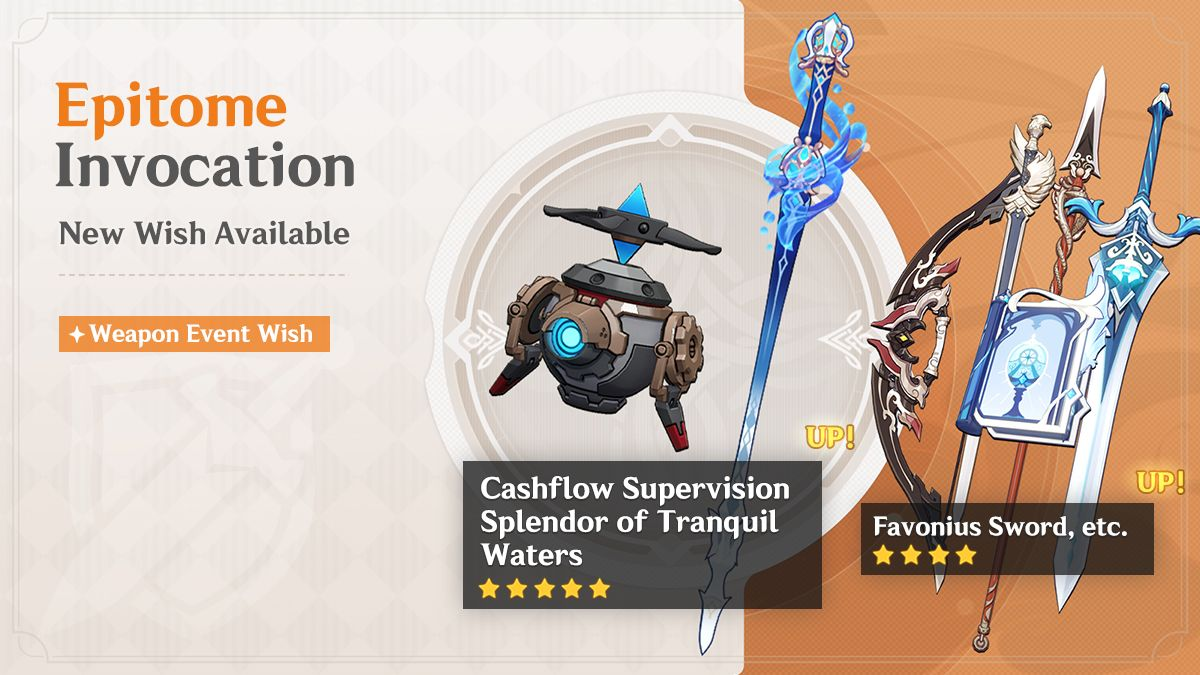
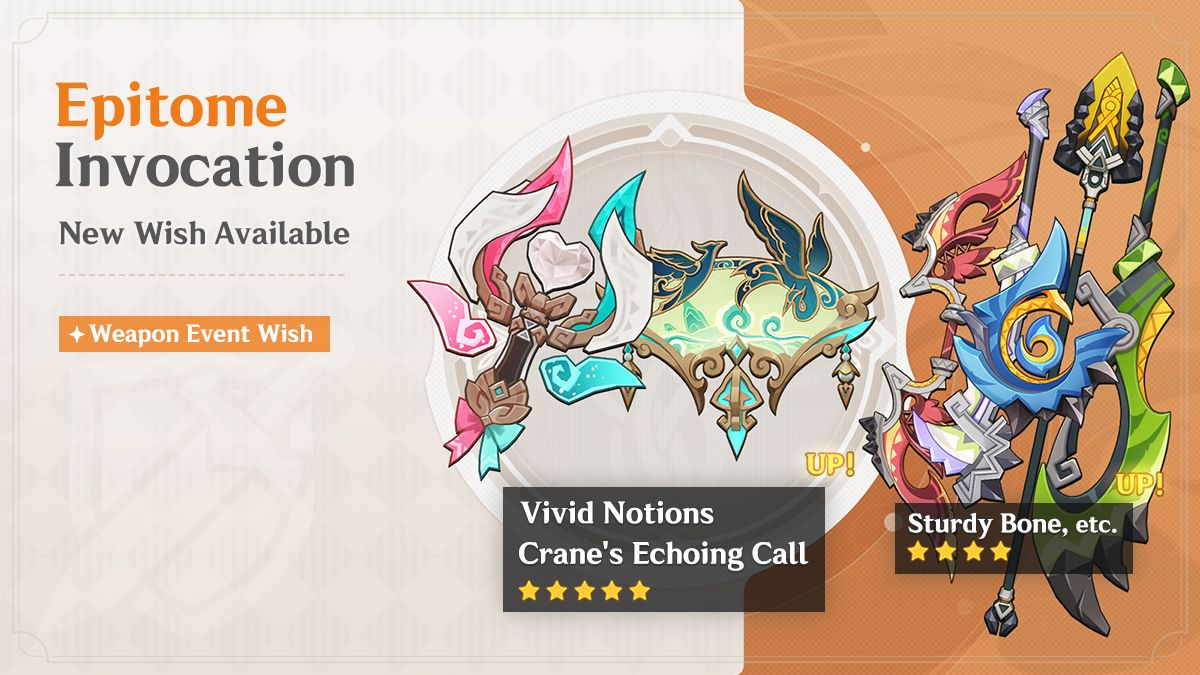
Genshin 5.5 Update Phase 1

Changed region(s): [[0.3392, 0.0, 1.0, 0.9644], [0.6783, 0.8711, 0.7092, 0.9022]]

diff --git a/GenshinWishCounter1.5/Service/DatabaseService.cs b/GenshinWishCounter1.5/Service/DatabaseService.cs
@@ -54,6 +54,7 @@ namespace GenshinWishCounter1._5.Service
             new FiveStarModel{ Name = "Shenhe", Type = CategoryStrings.Cryo, IsStandard = false },
             new FiveStarModel{ Name = "Tartaglia", Type = CategoryStrings.Hydro, IsStandard = false },
             new FiveStarModel{ Name = "Tighnari", Type = CategoryStrings.Dendro, IsStandard = true },
+            new FiveStarModel{ Name = "Varesa", Type = CategoryStrings.Electro, IsStandard = false },
             new FiveStarModel{ Name = "Venti", Type = CategoryStrings.Anemo, IsStandard = false },
             new FiveStarModel{ Name = "Wanderer", Type = CategoryStrings.Anemo, IsStandard = false },
             new FiveStarModel{ Name = "Wriothesley", Type = CategoryStrings.Cryo, IsStandard = false },
@@ -121,6 +122,7 @@ namespace GenshinWishCounter1._5.Service
             new FiveStarModel { Name = "Tulaytullah's Remembrance", Type = CategoryStrings.Catalyst, IsStandard = false },
             new FiveStarModel { Name = "Uraku Misugiri", Type = CategoryStrings.Sword, IsStandard = false },
             new FiveStarModel { Name = "Verdict", Type = CategoryStrings.Claymore, IsStandard = false },
+            new FiveStarModel { Name = "Vivid Notions", Type = CategoryStrings.Catalyst, IsStandard = false },
             new FiveStarModel { Name = "Vortex Vanquisher", Type = CategoryStrings.Polearm, IsStandard = false },
             new FiveStarModel { Name = "Wolf's Gravestone", Type = CategoryStrings.Claymore, IsStandard = false },
         };
